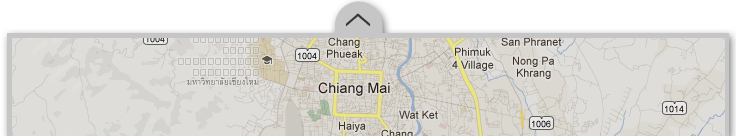
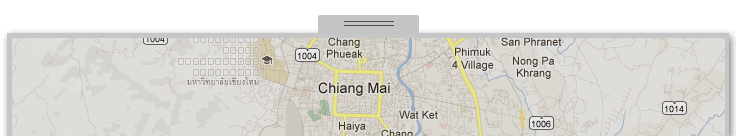
Footer

Changed region(s): [[0.4062, 0.0, 0.5938, 0.2647]]

diff --git a/css/default.css b/css/default.css
@@ -263,7 +263,7 @@ __________________________________________________ */
 #footer	{
 	position:relative;
 	width:100%;
-	background:#6b5543;
+	background:#303030;
 }
 #footer #footerarea	{
 	margin:auto;
@@ -286,10 +286,18 @@ __________________________________________________ */
 }
 #maparea .mapshadow	{
 	bottom:0px;
-	width:960px;
+	width:1200px;
 	height:20px;
+	margin-left: -120px;
+	margin-right: -120px;
 	background:url(../images/default/bgmap.png) no-repeat;
 	z-index:20;
+}
+#maparea .mapshadow-left	{
+	background-position: left 0;
+}
+#maparea .mapshadow-right	{
+	background-position: right 0;
 }
 #maparea .mapup	{
 	margin-left:447px;
@@ -308,10 +316,11 @@ __________________________________________________ */
 }
 #maparea .map	{
 	left:50%;
-	margin-left:-368px;
-	width:736px;
+	margin-left:-405px;
+	width:810px;
 	height:53px;
 	background:url(../images/default/map.png) no-repeat;
+	background-size: 100% auto;
 	z-index:10;
 }
 #maparea a	{
@@ -327,16 +336,15 @@ __________________________________________________ */
 #footerarea #footermenu	{
 	margin:auto;
 	padding-top:35px;
-	width:600px;
 	list-style:none;
+	text-align: center;
 }
 #footermenu li	{
-	float:left;
-	padding:0px 12px 0px 12px;
+	display: inline-block;
+	padding:0px 35px;
 	text-align:center;
 }
 #footermenu a	{
-	text-transform:uppercase;
 	color:#fff;
 }
 #footermenu a:hover,
@@ -348,13 +356,12 @@ __________________________________________________ */
 #footerarea #bottommenu	{
 	margin:auto;
 	padding-top:45px;
-	width:850px;
-	font-size:10px;
-	text-transform:uppercase;
+	font-size:12px;
 	list-style:none;
+	text-align: center;
 }
 #bottommenu li	{
-	float:left;
+	display: inline-block;
 	padding:0px 14px 0px 14px;
 	text-align:center;
 	border-right:1px solid #b49c89;
@@ -363,11 +370,11 @@ __________________________________________________ */
 	border:none;
 }
 #bottommenu a	{
-	color:#b49c89;
+	color:#fff;
 }
 #bottommenu a:hover,
 #bottommenu .mnselect	{
-	color:#e2d9d2;
+	font-weight: 700;
 }
 
 /* Copyright */
@@ -375,11 +382,12 @@ __________________________________________________ */
 	padding-top:10px;
 	padding-bottom:35px;
 	text-align:center;
-	font-size:11px;
-	color:#ad9a8a;
+	font-size:12px;
+	color:#fff;
+	opacity: 0.3;
 }
 #copyright a	{
-	color:#ad9a8a;
+	color:#fff;
 }
 #copyright a:hover	{
 	color:#e2d9d2;

diff --git a/content/default/footer.php b/content/default/footer.php
@@ -5,14 +5,15 @@
 	<div id="footerarea">
     	<p id="maparea">
         	<span class="mapup"></span><span class="mapdown"></span>
-            <span class="mapshadow"></span>
+            <span class="mapshadow mapshadow-left"></span>
+            <span class="mapshadow mapshadow-right"></span>
             <span class="map"></span>
             <a href="https://www.google.com/maps/ms?msid=215878593138040516307.0004d360e7c2ee4d90fe5&msa=0&ll=18.827666,98.992996&spn=0.184248,0.338173" target="_blank">Click to view Thaweephan Location on Google Maps</a>
         </p>
         <ul id="footermenu">
-            <li><a href="<?php echo $url.$lgurl.'/'.$mntxt['8000']['url'];?>"<?php if ($pid == "8000") echo ' class="mnselect"';?>>News &amp; Recognition</a></li>
+            <!-- <li><a href="<?php echo $url.$lgurl.'/'.$mntxt['8000']['url'];?>"<?php if ($pid == "8000") echo ' class="mnselect"';?>>News &amp; Recognition</a></li> -->
             <li><a href="<?php echo $url.$lgurl.'/'.$mntxt['9000']['url'];?>"<?php if ($pid == "9000") echo ' class="mnselect"';?>>Join Our Team</a></li>
-            <li><a href="<?php echo $url."/pdf/Thaweephan_Brochure".$sess_lg.".pdf";?>" target="_blank">Download E-Brochure</a></li>
+            <li><a href="<?php echo $url."/pdf/Thaweephan_Brochure".$sess_lg.".pdf";?>" target="_blank">Downloads</a></li>
             <li><a href="<?php echo $url.$lgurl.'/popup/'.$mntxt['0002']['url'];?>" class="popupsubscribe">Newsletter</a></li>
         </ul>
         <div class="clearline"></div>
